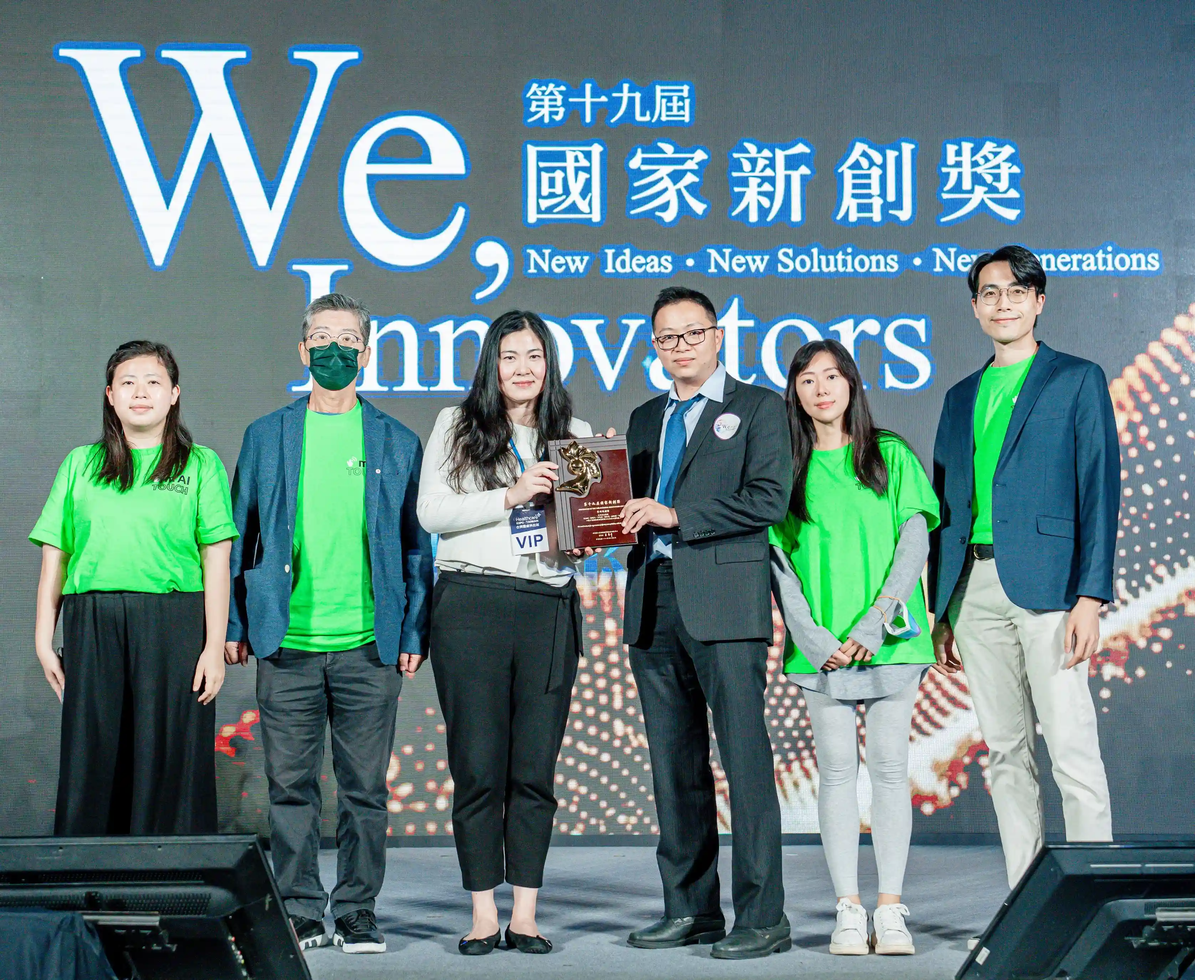
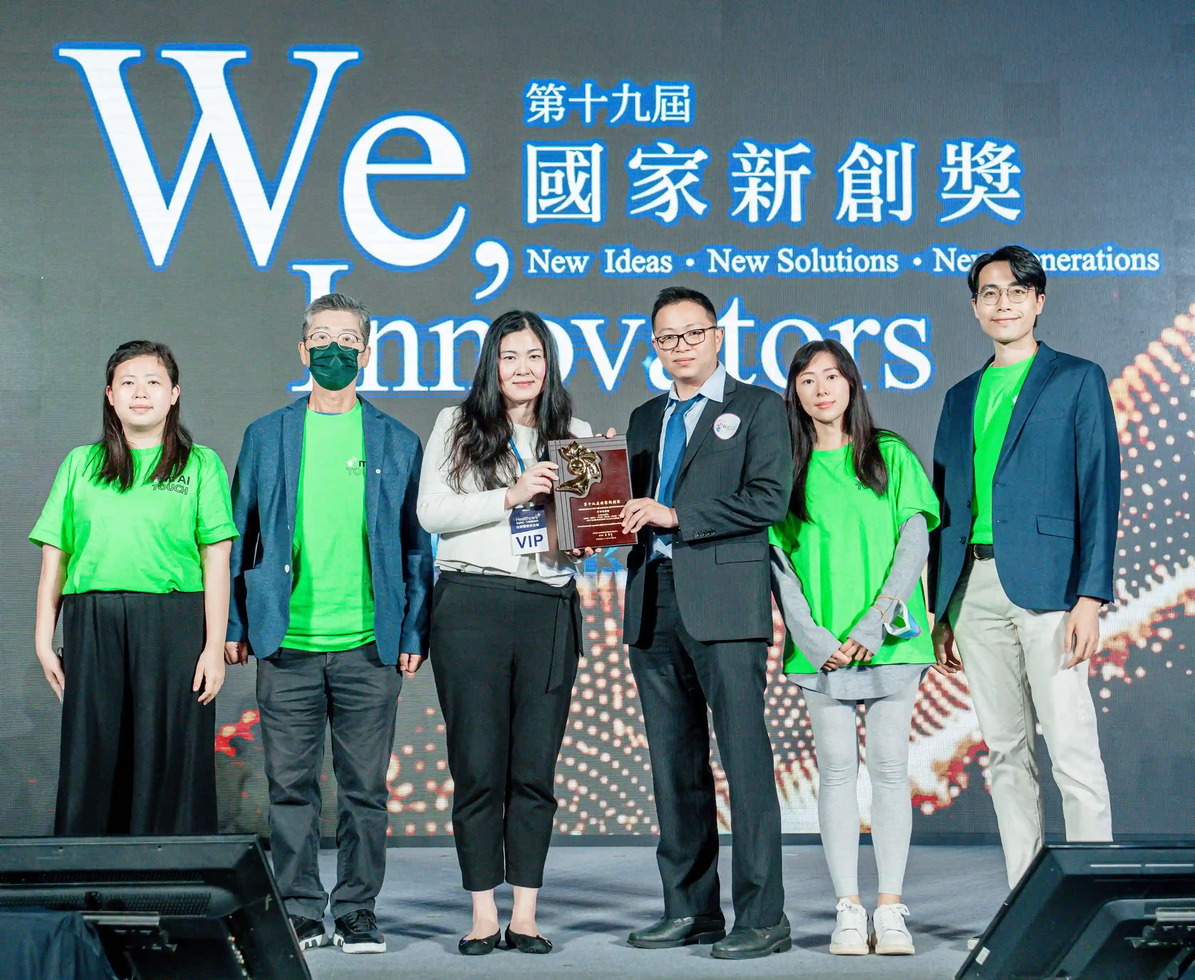
update picture size

diff --git a/index.html b/index.html
@@ -48,7 +48,7 @@
 <body>
   <!-- ======= Hero Section ======= -->
 <div id="hero" class="hero" style="display: flex; justify-content: center; align-items: center;" >
-  <img data-aos="fade-up" src="assets/img/網頁用首頁海報v1.0.png" style="width:100%;" alt="產品特寫圖" class="img-fluid">
+  <img data-aos="fade-up" src="assets/img/網頁用首頁海報v1.0.webp" style="width:100%;" alt="產品特寫圖" class="img-fluid">
 </div>
 
   <!-- ======= Header ======= -->
@@ -141,7 +141,7 @@
         <div class="row ">
           <div class="col-lg-6 col-md-12" data-aos="fade-left" style="text-align: center;">
                 <figure >
-                  <img style="width:50%" src="assets/img/產品安裝位置.png" alt="產品安裝說明圖" class="img-fluid">
+                  <img style="width:50%" src="assets/img/產品安裝位置.webp" alt="產品安裝說明圖" class="img-fluid">
                 </figure>
           </div>
           <div class="col-lg-6 col-md-12" data-aos="fade-left">
@@ -221,7 +221,7 @@
     <div class="row">
 
       <div class="col-lg-12 " style="display: flex; justify-content: center; ">
-        <img data-aos="zoom-in" src="assets/img/手動0716.png" alt="現有解方缺點" class="img-fluid full-screen-graph">
+        <img data-aos="zoom-in" src="assets/img/手動0716.webp" alt="現有解方缺點" class="img-fluid full-screen-graph">
       </div>
     </div>
   </div>
@@ -251,7 +251,7 @@
         <div class="row ">
           <div class="col-lg-6 col-md-12" data-aos="fade-left">
                 <figure>
-                  <img src="assets/img/安裝說明圖.png" alt="產品安裝說明圖" class="img-fluid">
+                  <img src="assets/img/安裝說明圖.webp" alt="產品安裝說明圖" class="img-fluid">
                 </figure>
           </div>
           <div class="col-lg-6 col-md-12 mt-4 mt-lg-0" data-aos="fade-right">
@@ -336,7 +336,7 @@
   <div class="container">
     <div class="row">
       <div class="col-lg-12 " style="display: flex; justify-content: center; ">
-        <img data-aos="zoom-in" src="assets/img/防疫需求還需要20230804.png" alt="最新傳染病資訊" class="img-fluid full-screen-graph">
+        <img data-aos="zoom-in" src="assets/img/防疫需求還需要20230804.webp" alt="最新傳染病資訊" class="img-fluid full-screen-graph">
       </div>
 
     </div>
@@ -439,7 +439,7 @@
           <div class="col-lg-6 col-md-12 d-flex align-items-stretch">
             <div class="member" data-aos="zoom-in">
               <div class="member-img">
-                <img src="assets/img/尤努斯0730.jpg" class="img-fluid" alt="第二屆尤努斯創新獎領獎照片">
+                <img src="assets/img/尤努斯0730.webp" class="img-fluid" alt="第二屆尤努斯創新獎領獎照片">
               </div>
               <div class="member-info">
                 <h4>第二屆尤努斯創新獎</h4>
@@ -638,7 +638,7 @@
           </div>
 
           <div class="col-lg-8 mt-5 mt-lg-0">
-           <a href="index.html"><img src="assets/img/poster_cn.png" alt="海報" class="img-fluid"></a>
+           <a href="index.html"><img src="assets/img/poster_cn.webp" alt="海報" class="img-fluid"></a>
           </div>
 
         </div>

diff --git a/index_en.html b/index_en.html
@@ -43,7 +43,7 @@
 
     <!-- ======= Hero Section ======= -->
 <div id="hero" class="hero" style="display: flex; justify-content: center; align-items: center;" >
-  <img data-aos="fade-up" src="assets/img/20230821英文版海報.png" style="width:100%;" alt="產品特寫圖" class="img-fluid">
+  <img data-aos="fade-up" src="assets/img/20230821英文版海報.webp" style="width:100%;" alt="產品特寫圖" class="img-fluid">
 </div>
 
   <!-- ======= Header ======= -->
@@ -139,12 +139,12 @@
         <div class="row ">
           <div class="col-lg-6 col-md-12" data-aos="fade-left" style="text-align: center;">
                 <figure >
-                  <img style="width:50%" src="assets/img/installation location.png" alt="產品安裝說明圖" class="img-fluid">
+                  <img style="width:50%" src="assets/img/installation location.webp" alt="產品安裝說明圖" class="img-fluid">
                 </figure>
           </div>
           <div class="col-lg-6 col-md-12" data-aos="fade-left">
                 <figure>
-                  <img src="assets/img/product_size.png" alt="產品安裝說明圖" class="img-fluid">
+                  <img src="assets/img/product_size.webp" alt="產品安裝說明圖" class="img-fluid">
                 </figure>
           </div>
         </div>
@@ -323,7 +323,7 @@
   <div class="container">
     <div class="row">
       <div class="col-lg-12 " style="display: flex; justify-content: center; ">
-        <img data-aos="zoom-in" src="assets/img/news.png" alt="" class="img-fluid full-screen-graph">
+        <img data-aos="zoom-in" src="assets/img/news.webp" alt="" class="img-fluid full-screen-graph">
       </div>
     </div>
   </div>
@@ -614,7 +614,7 @@
           </div>
 
           <div class="col-lg-8 mt-5 mt-lg-0">
-           <a href="index.html"><img src="assets/img/poster_eng.png" alt="" class="img-fluid"></a>
+           <a href="index.html"><img src="assets/img/poster_eng.webp" alt="" class="img-fluid"></a>
           </div>
 
         </div>
